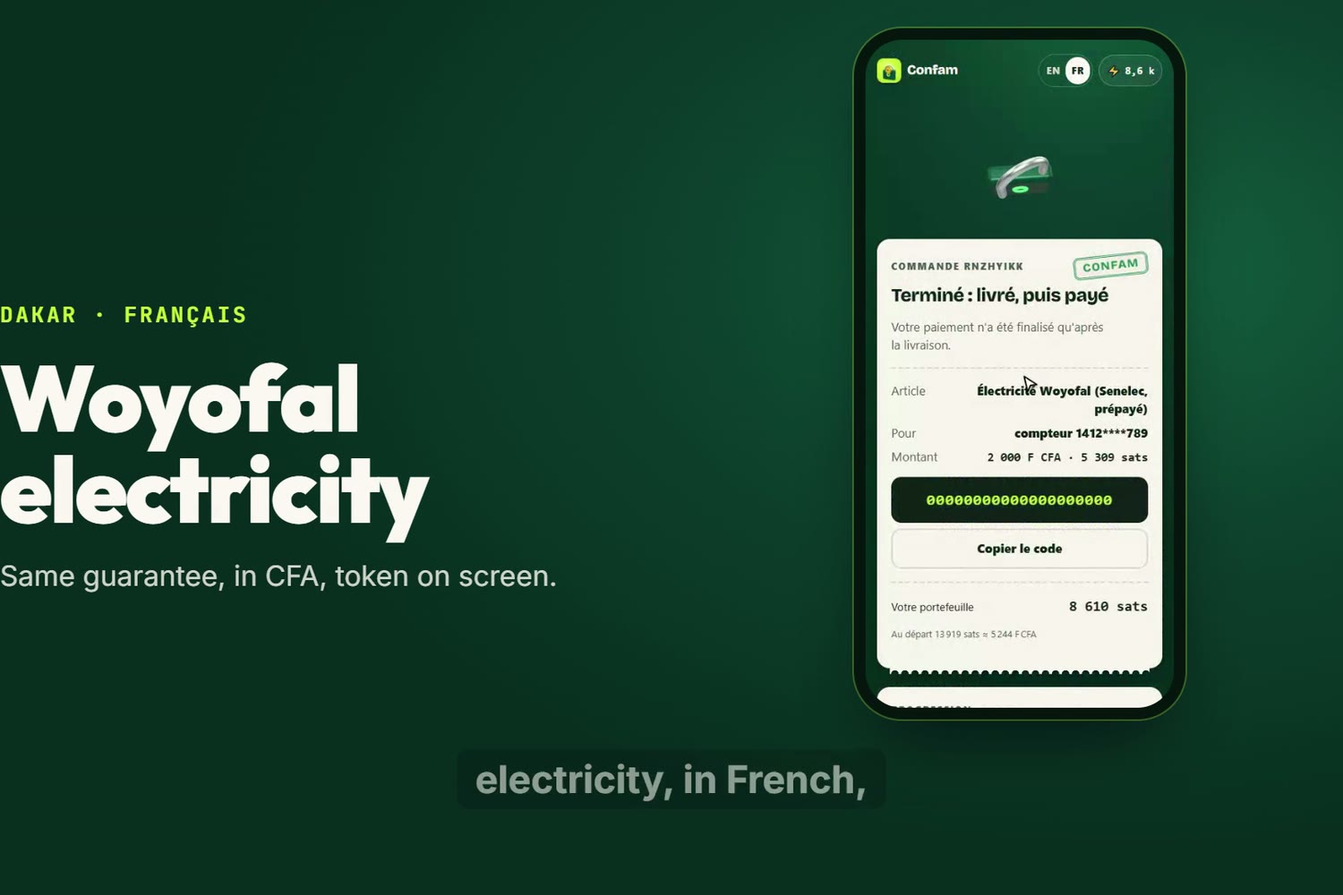
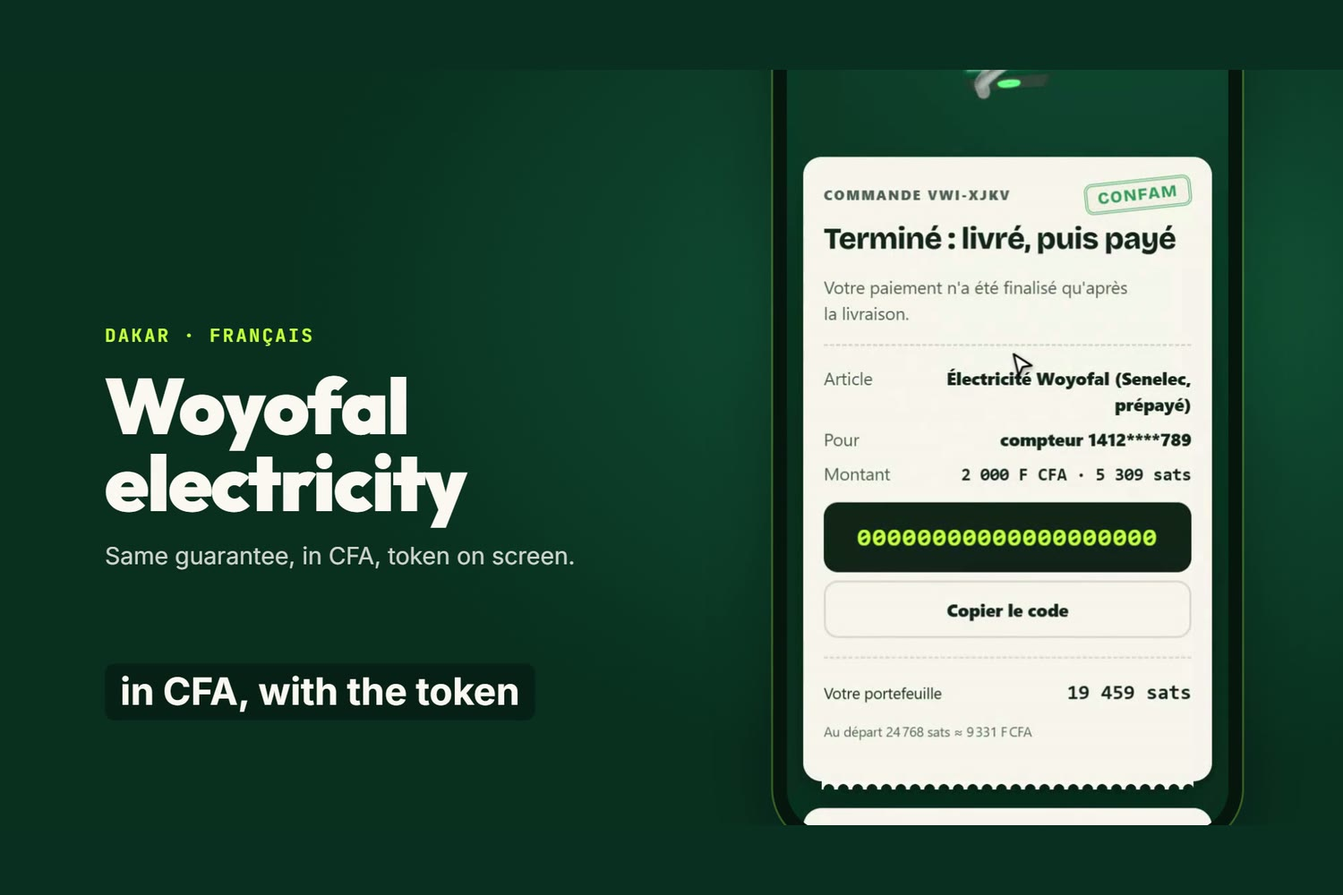
feat(video): bigger, sharper phone (1.5x capture) with push-ins on each key moment; larger captions

diff --git a/video/film/index.html b/video/film/index.html
@@ -28,17 +28,21 @@
       <div id="s12" data-composition-id="s12" data-composition-src="compositions/s12.html" data-start="111.72" data-duration="12.768" data-track-index="1" data-track-kind="graphics" data-width="1920" data-height="1080" style="z-index:21;"></div>
       <div id="s13" data-composition-id="s13" data-composition-src="compositions/s13.html" data-start="124.488" data-duration="10.392" data-track-index="1" data-track-kind="graphics" data-width="1920" data-height="1080" style="z-index:22;"></div>
       <div id="s14" data-composition-id="s14" data-composition-src="compositions/s14.html" data-start="134.88" data-duration="6.048" data-track-index="1" data-track-kind="graphics" data-width="1920" data-height="1080" style="z-index:23;"></div>
-      <div id="phone" data-composition-id="phone" data-composition-src="compositions/phone.html" data-start="21.792" data-duration="82.152" data-track-index="2" data-track-kind="graphics" data-width="1920" data-height="1080" style="z-index:30;"></div>
-      <video id="v-s03-0" class="clip" src="assets/footage/wallet.mp4" muted playsinline data-start="21.792" data-duration="14.208" data-media-start="4.6" data-playback-rate="0.2393" data-track-index="3" style="position:absolute; left:1194px; top:48px; width:372px; height:806px; border-radius:44px; object-fit:cover; z-index:40;"></video>
-      <video id="v-s04-0" class="clip" src="assets/footage/wallet.mp4" muted playsinline data-start="36.0" data-duration="8.304" data-media-start="8.0" data-playback-rate="1.5655" data-track-index="3" style="position:absolute; left:1194px; top:48px; width:372px; height:806px; border-radius:44px; object-fit:cover; z-index:40;"></video>
-      <video id="v-s05-0" class="clip" src="assets/footage/airtime.mp4" muted playsinline data-start="44.304" data-duration="9.816" data-media-start="9.787" data-playback-rate="1.273" data-track-index="3" style="position:absolute; left:1194px; top:48px; width:372px; height:806px; border-radius:44px; object-fit:cover; z-index:40;"></video>
-      <video id="v-s06-0" class="clip" src="assets/footage/airtime.mp4" muted playsinline data-start="54.12" data-duration="11.376" data-media-start="22.283" data-playback-rate="0.8481" data-track-index="3" style="position:absolute; left:1194px; top:48px; width:372px; height:806px; border-radius:44px; object-fit:cover; z-index:40;"></video>
-      <video id="v-s07-0" class="clip" src="assets/footage/airtime.mp4" muted playsinline data-start="65.496" data-duration="7.752" data-media-start="31.931" data-playback-rate="0.6553" data-track-index="3" style="position:absolute; left:1194px; top:48px; width:372px; height:806px; border-radius:44px; object-fit:cover; z-index:40;"></video>
-      <video id="v-s08-0" class="clip" src="assets/footage/airtime.mp4" muted playsinline data-start="73.248" data-duration="5.952" data-media-start="40.411" data-playback-rate="0.9073" data-track-index="3" style="position:absolute; left:1194px; top:48px; width:372px; height:806px; border-radius:44px; object-fit:cover; z-index:40;"></video>
-      <video id="v-s09-0" class="clip" src="assets/footage/fail.mp4" muted playsinline data-start="79.2" data-duration="7.179" data-media-start="15.34" data-playback-rate="2.2475" data-track-index="3" style="position:absolute; left:1194px; top:48px; width:372px; height:806px; border-radius:44px; object-fit:cover; z-index:40;"></video>
-      <video id="v-s09-1" class="clip" src="assets/footage/fail.mp4" muted playsinline data-start="86.379" data-duration="8.781" data-media-start="31.475" data-playback-rate="0.4903" data-track-index="3" style="position:absolute; left:1194px; top:48px; width:372px; height:806px; border-radius:44px; object-fit:cover; z-index:40;"></video>
-      <video id="v-s10-0" class="clip" src="assets/footage/woyofal.mp4" muted playsinline data-start="95.16" data-duration="3.4" data-media-start="14.945" data-playback-rate="2.5221" data-track-index="3" style="position:absolute; left:1194px; top:48px; width:372px; height:806px; border-radius:44px; object-fit:cover; z-index:40;"></video>
-      <video id="v-s10-1" class="clip" src="assets/footage/woyofal.mp4" muted playsinline data-start="98.56" data-duration="5.384" data-media-start="46.953" data-playback-rate="1.1103" data-track-index="3" style="position:absolute; left:1194px; top:48px; width:372px; height:806px; border-radius:44px; object-fit:cover; z-index:40;"></video>
+      <div id="rig" data-layout-allow-overflow style="position:absolute; left:1201px; top:36px; width:479px; height:1008px; z-index:40; opacity:0;">
+        <div id="phone-body" style="position:absolute; inset:0; border-radius:58px; background:#05140f; box-shadow: 0 0 0 2px rgba(198,244,50,0.25), 0 40px 90px -30px rgba(0,0,0,0.7);"></div>
+        <div id="screen-mask" style="position:absolute; left:14px; top:14px; width:451px; height:980px; border-radius:44px; overflow:hidden;">
+          <video id="v-s03-0" class="clip" src="assets/footage/wallet.mp4" muted playsinline data-start="21.792" data-duration="14.208" data-media-start="3.741" data-playback-rate="0.2323" data-track-index="3" style="position:absolute; left:0; top:0; width:451px; height:980px; object-fit:cover;"></video>
+          <video id="v-s04-0" class="clip" src="assets/footage/wallet.mp4" muted playsinline data-start="36.0" data-duration="8.304" data-media-start="7.041" data-playback-rate="1.7104" data-track-index="3" style="position:absolute; left:0; top:0; width:451px; height:980px; object-fit:cover;"></video>
+          <video id="v-s05-0" class="clip" src="assets/footage/airtime.mp4" muted playsinline data-start="44.304" data-duration="9.816" data-media-start="7.509" data-playback-rate="1.2991" data-track-index="3" style="position:absolute; left:0; top:0; width:451px; height:980px; object-fit:cover;"></video>
+          <video id="v-s06-0" class="clip" src="assets/footage/airtime.mp4" muted playsinline data-start="54.12" data-duration="11.376" data-media-start="20.261" data-playback-rate="0.7081" data-track-index="3" style="position:absolute; left:0; top:0; width:451px; height:980px; object-fit:cover;"></video>
+          <video id="v-s07-0" class="clip" src="assets/footage/airtime.mp4" muted playsinline data-start="65.496" data-duration="7.752" data-media-start="28.316" data-playback-rate="0.7188" data-track-index="3" style="position:absolute; left:0; top:0; width:451px; height:980px; object-fit:cover;"></video>
+          <video id="v-s08-0" class="clip" src="assets/footage/airtime.mp4" muted playsinline data-start="73.248" data-duration="5.952" data-media-start="37.288" data-playback-rate="0.9073" data-track-index="3" style="position:absolute; left:0; top:0; width:451px; height:980px; object-fit:cover;"></video>
+          <video id="v-s09-0" class="clip" src="assets/footage/fail.mp4" muted playsinline data-start="79.2" data-duration="7.179" data-media-start="13.817" data-playback-rate="2.4574" data-track-index="3" style="position:absolute; left:0; top:0; width:451px; height:980px; object-fit:cover;"></video>
+          <video id="v-s09-1" class="clip" src="assets/footage/fail.mp4" muted playsinline data-start="86.379" data-duration="8.781" data-media-start="31.459" data-playback-rate="0.549" data-track-index="3" style="position:absolute; left:0; top:0; width:451px; height:980px; object-fit:cover;"></video>
+          <video id="v-s10-0" class="clip" src="assets/footage/woyofal.mp4" muted playsinline data-start="95.16" data-duration="3.4" data-media-start="11.708" data-playback-rate="2.2915" data-track-index="3" style="position:absolute; left:0; top:0; width:451px; height:980px; object-fit:cover;"></video>
+          <video id="v-s10-1" class="clip" src="assets/footage/woyofal.mp4" muted playsinline data-start="98.56" data-duration="5.384" data-media-start="40.095" data-playback-rate="1.1051" data-track-index="3" style="position:absolute; left:0; top:0; width:451px; height:980px; object-fit:cover;"></video>
+        </div>
+      </div>
       <div id="captions" data-composition-id="captions" data-composition-src="compositions/captions.html" data-start="0" data-duration="140.928" data-track-index="4" data-track-kind="captions" data-width="1920" data-height="1080" style="z-index:60;"></div>
       <audio id="vo-s01" src="assets/voice/s01.mp3" data-start="0.5" data-duration="9.744" data-track-index="5" data-volume="1"></audio>
       <audio id="vo-s02" src="assets/voice/s02.mp3" data-start="11.444" data-duration="9.648" data-track-index="5" data-volume="1"></audio>
@@ -55,30 +59,48 @@
       <audio id="vo-s13" src="assets/voice/s13.mp3" data-start="124.988" data-duration="9.192" data-track-index="5" data-volume="1"></audio>
       <audio id="vo-s14" src="assets/voice/s14.mp3" data-start="135.38" data-duration="4.848" data-track-index="5" data-volume="1"></audio>
       <audio id="bed" src="assets/audio/bed.wav" data-start="0" data-duration="140.928" data-track-index="6" data-volume="0.14" data-fade-in="1" data-fade-out="3"></audio>
-      <audio id="fx0" src="assets/sfx/click-a.mp3" data-start="36.101" data-duration="0.366" data-track-index="7" data-volume="0.9"></audio>
-      <audio id="fx1" src="assets/sfx/click-b.mp3" data-start="37.771" data-duration="0.336" data-track-index="8" data-volume="0.9"></audio>
-      <audio id="fx2" src="assets/sfx/click-c.mp3" data-start="39.538" data-duration="0.393" data-track-index="7" data-volume="0.9"></audio>
-      <audio id="fx3" src="assets/sfx/click-a.mp3" data-start="44.893" data-duration="0.366" data-track-index="8" data-volume="0.9"></audio>
-      <audio id="fx4" src="assets/sfx/click-b.mp3" data-start="47.097" data-duration="0.336" data-track-index="7" data-volume="0.9"></audio>
-      <audio id="fx5" src="assets/sfx/click-c.mp3" data-start="48.572" data-duration="0.393" data-track-index="8" data-volume="0.9"></audio>
-      <audio id="fx6" src="assets/sfx/click-a.mp3" data-start="50.783" data-duration="0.366" data-track-index="7" data-volume="0.9"></audio>
-      <audio id="fx7" src="assets/sfx/click-b.mp3" data-start="54.558" data-duration="0.336" data-track-index="8" data-volume="0.9"></audio>
-      <audio id="fx8" src="assets/sfx/pop.mp3" data-start="66.859" data-duration="0.72" data-track-index="7" data-volume="0.8"></audio>
-      <audio id="fx9" src="assets/sfx/click-c.mp3" data-start="79.289" data-duration="0.393" data-track-index="8" data-volume="0.9"></audio>
-      <audio id="fx10" src="assets/sfx/click-a.mp3" data-start="81.312" data-duration="0.366" data-track-index="7" data-volume="0.9"></audio>
+      <audio id="fx0" src="assets/sfx/click-a.mp3" data-start="36.136" data-duration="0.366" data-track-index="7" data-volume="0.9"></audio>
+      <audio id="fx1" src="assets/sfx/click-b.mp3" data-start="37.786" data-duration="0.336" data-track-index="8" data-volume="0.9"></audio>
+      <audio id="fx2" src="assets/sfx/click-c.mp3" data-start="39.411" data-duration="0.393" data-track-index="7" data-volume="0.9"></audio>
+      <audio id="fx3" src="assets/sfx/click-a.mp3" data-start="44.88" data-duration="0.366" data-track-index="8" data-volume="0.9"></audio>
+      <audio id="fx4" src="assets/sfx/click-b.mp3" data-start="47.087" data-duration="0.336" data-track-index="7" data-volume="0.9"></audio>
+      <audio id="fx5" src="assets/sfx/click-c.mp3" data-start="48.733" data-duration="0.393" data-track-index="8" data-volume="0.9"></audio>
+      <audio id="fx6" src="assets/sfx/click-a.mp3" data-start="51.11" data-duration="0.366" data-track-index="7" data-volume="0.9"></audio>
+      <audio id="fx7" src="assets/sfx/click-b.mp3" data-start="54.651" data-duration="0.336" data-track-index="8" data-volume="0.9"></audio>
+      <audio id="fx8" src="assets/sfx/pop.mp3" data-start="66.731" data-duration="0.72" data-track-index="7" data-volume="0.8"></audio>
+      <audio id="fx9" src="assets/sfx/click-c.mp3" data-start="79.277" data-duration="0.393" data-track-index="8" data-volume="0.9"></audio>
+      <audio id="fx10" src="assets/sfx/click-a.mp3" data-start="81.035" data-duration="0.366" data-track-index="7" data-volume="0.9"></audio>
       <audio id="fx11" src="assets/sfx/riser.mp3" data-start="84.426" data-duration="2.592" data-track-index="8" data-volume="0.55"></audio>
       <audio id="fx12" src="assets/sfx/stamp.mp3" data-start="86.25" data-duration="0.575" data-track-index="7" data-volume="0.9"></audio>
-      <audio id="fx13" src="assets/sfx/click-b.mp3" data-start="95.285" data-duration="0.336" data-track-index="8" data-volume="0.9"></audio>
-      <audio id="fx14" src="assets/sfx/key.mp3" data-start="95.457" data-duration="0.271" data-track-index="7" data-volume="0.62"></audio>
-      <audio id="fx15" src="assets/sfx/key.mp3" data-start="95.525" data-duration="0.271" data-track-index="8" data-volume="0.5"></audio>
-      <audio id="fx16" src="assets/sfx/key.mp3" data-start="95.592" data-duration="0.271" data-track-index="7" data-volume="0.62"></audio>
-      <audio id="fx17" src="assets/sfx/key.mp3" data-start="95.66" data-duration="0.271" data-track-index="8" data-volume="0.5"></audio>
-      <audio id="fx18" src="assets/sfx/key.mp3" data-start="95.727" data-duration="0.271" data-track-index="7" data-volume="0.62"></audio>
-      <audio id="fx19" src="assets/sfx/key.mp3" data-start="95.794" data-duration="0.271" data-track-index="8" data-volume="0.5"></audio>
-      <audio id="fx20" src="assets/sfx/pop.mp3" data-start="99.329" data-duration="0.72" data-track-index="7" data-volume="0.8"></audio>
+      <audio id="fx13" src="assets/sfx/click-b.mp3" data-start="95.301" data-duration="0.336" data-track-index="8" data-volume="0.9"></audio>
+      <audio id="fx14" src="assets/sfx/key.mp3" data-start="95.533" data-duration="0.271" data-track-index="7" data-volume="0.62"></audio>
+      <audio id="fx15" src="assets/sfx/key.mp3" data-start="95.607" data-duration="0.271" data-track-index="8" data-volume="0.5"></audio>
+      <audio id="fx16" src="assets/sfx/key.mp3" data-start="95.681" data-duration="0.271" data-track-index="7" data-volume="0.62"></audio>
+      <audio id="fx17" src="assets/sfx/key.mp3" data-start="95.755" data-duration="0.271" data-track-index="8" data-volume="0.5"></audio>
+      <audio id="fx18" src="assets/sfx/key.mp3" data-start="95.829" data-duration="0.271" data-track-index="7" data-volume="0.62"></audio>
+      <audio id="fx19" src="assets/sfx/key.mp3" data-start="95.903" data-duration="0.271" data-track-index="8" data-volume="0.5"></audio>
+      <audio id="fx20" src="assets/sfx/pop.mp3" data-start="99.333" data-duration="0.72" data-track-index="7" data-volume="0.8"></audio>
     </div>
     <script>
-      window.__timelines["main"] = gsap.timeline({ paused: true });
+      const tl = gsap.timeline({ paused: true });
+      tl.set("#rig", { transformOrigin: "50% 50%" }, 0);
+      tl.fromTo("#rig", { opacity: 0, y: 60 }, { opacity: 1, y: 0, duration: 0.6, ease: "power3.out" }, 21.792);
+      tl.to("#rig", { opacity: 0, duration: 0.35, ease: "power2.in" }, 103.594);
+      tl.fromTo("#rig", { scale: 1, y: 0 }, { scale: 1.4, y: 165.6, duration: 0.8, ease: "power2.inOut" }, 40.356);
+      tl.to("#rig", { scale: 1, y: 0, duration: 0.5, ease: "power2.inOut" }, 43.754);
+      tl.fromTo("#rig", { scale: 1, y: 0 }, { scale: 1.4, y: -165.6, duration: 0.8, ease: "power2.inOut" }, 49.278);
+      tl.to("#rig", { scale: 1, y: 0, duration: 0.5, ease: "power2.inOut" }, 53.570);
+      tl.fromTo("#rig", { scale: 1, y: 0 }, { scale: 1.4, y: -164.6, duration: 0.8, ease: "power2.inOut" }, 55.520);
+      tl.to("#rig", { scale: 1, y: 0, duration: 0.5, ease: "power2.inOut" }, 64.946);
+      tl.fromTo("#rig", { scale: 1, y: 0 }, { scale: 1.4, y: 0.0, duration: 0.8, ease: "power2.inOut" }, 67.905);
+      tl.to("#rig", { scale: 1, y: 0, duration: 0.5, ease: "power2.inOut" }, 72.698);
+      tl.fromTo("#rig", { scale: 1, y: 0 }, { scale: 1.4, y: -165.6, duration: 0.8, ease: "power2.inOut" }, 73.748);
+      tl.to("#rig", { scale: 1, y: 0, duration: 0.5, ease: "power2.inOut" }, 78.650);
+      tl.fromTo("#rig", { scale: 1, y: 0 }, { scale: 1.4, y: 68.6, duration: 0.8, ease: "power2.inOut" }, 85.479);
+      tl.to("#rig", { scale: 1, y: 0, duration: 0.5, ease: "power2.inOut" }, 94.610);
+      tl.fromTo("#rig", { scale: 1, y: 0 }, { scale: 1.4, y: -137.2, duration: 0.8, ease: "power2.inOut" }, 99.160);
+      tl.to("#rig", { scale: 1, y: 0, duration: 0.5, ease: "power2.inOut" }, 103.444);
+      window.__timelines["main"] = tl;
     </script>
   </body>
 </html>

diff --git a/video/film/compositions/captions.html b/video/film/compositions/captions.html
@@ -5,7 +5,7 @@
 .display { font-family: 'Outfit', sans-serif; font-weight: 900; letter-spacing: -0.02em; line-height: 0.98; }
 .sub { font-size: 34px; line-height: 1.35; color: rgba(251, 248, 241, 0.82); }
 .src { font-family: 'JetBrains Mono', monospace; font-size: 20px; color: rgba(251, 248, 241, 0.55); }
-.cap { position: absolute; left: 0; right: 0; bottom: 104px; text-align: center; overflow: visible; } .cap span { display: inline-block; font-family: 'Inter', sans-serif; font-weight: 700; font-size: 46px; color: #fbf8f1; padding: 8px 22px; border-radius: 14px; background: rgba(5, 20, 15, 0.55); }</style>
+.cap { position: absolute; left: 0; right: 0; bottom: 108px; text-align: center; overflow: visible; } .cap-left { left: 150px; right: auto; width: 930px; text-align: left; bottom: 150px; } .cap span { display: inline-block; font-family: 'Inter', sans-serif; font-weight: 700; font-size: 54px; line-height: 1.2; color: #fbf8f1; padding: 8px 22px; border-radius: 14px; background: rgba(5, 20, 15, 0.6); }</style>
   <div id="root" data-composition-id="captions" data-width="1920" data-height="1080">
     <div id="cap0" class="clip cap" data-start="0.552" data-duration="1.082"><span id="cap0-t">You buy airtime.</span></div>
     <div id="cap1" class="clip cap" data-start="2.39" data-duration="1.498"><span id="cap1-t">Your account is debited.</span></div>
@@ -19,49 +19,49 @@
     <div id="cap9" class="clip cap" data-start="17.201" data-duration="1.498"><span id="cap9-t">and the product comes later,</span></div>
     <div id="cap10" class="clip cap" data-start="18.738" data-duration="0.943"><span id="cap10-t">all the risk is on</span></div>
     <div id="cap11" class="clip cap" data-start="19.701" data-duration="0.535"><span id="cap11-t">us.</span></div>
-    <div id="cap12" class="clip cap" data-start="22.344" data-duration="1.03"><span id="cap12-t">This is Confam.</span></div>
-    <div id="cap13" class="clip cap" data-start="24.13" data-duration="0.769"><span id="cap13-t">E no land?</span></div>
-    <div id="cap14" class="clip cap" data-start="25.784" data-duration="0.782"><span id="cap14-t">You no pay.</span></div>
-    <div id="cap15" class="clip cap" data-start="27.398" data-duration="1.212"><span id="cap15-t">You pay for airtime,</span></div>
-    <div id="cap16" class="clip cap" data-start="28.765" data-duration="2.163"><span id="cap16-t">data and electricity with Bitcoin,</span></div>
-    <div id="cap17" class="clip cap" data-start="31.031" data-duration="1.464"><span id="cap17-t">and your payment only completes</span></div>
-    <div id="cap18" class="clip cap" data-start="32.515" data-duration="1.915"><span id="cap18-t">after the provider confirms delivery.</span></div>
-    <div id="cap19" class="clip cap" data-start="36.552" data-duration="1.147"><span id="cap19-t">Connect a wallet.</span></div>
-    <div id="cap20" class="clip cap" data-start="38.533" data-duration="0.978"><span id="cap20-t">For this demo,</span></div>
-    <div id="cap21" class="clip cap" data-start="39.653" data-duration="1.191"><span id="cap21-t">a free test wallet with</span></div>
-    <div id="cap22" class="clip cap" data-start="40.864" data-duration="1.889"><span id="cap22-t">twenty five thousand test sats.</span></div>
-    <div id="cap23" class="clip cap" data-start="44.856" data-duration="0.873"><span id="cap23-t">Pick airtime.</span></div>
-    <div id="cap24" class="clip cap" data-start="46.473" data-duration="1.029"><span id="cap24-t">Enter the number,</span></div>
-    <div id="cap25" class="clip cap" data-start="47.619" data-duration="1.641"><span id="cap25-t">the network and the amount.</span></div>
-    <div id="cap26" class="clip cap" data-start="50.093" data-duration="1.62"><span id="cap26-t">Confam shows the exact price</span></div>
-    <div id="cap27" class="clip cap" data-start="51.733" data-duration="0.834"><span id="cap27-t">in sats.</span></div>
-    <div id="cap28" class="clip cap" data-start="54.672" data-duration="0.782"><span id="cap28-t">Now watch.</span></div>
-    <div id="cap29" class="clip cap" data-start="56.38" data-duration="1.12"><span id="cap29-t">My sats are locked,</span></div>
-    <div id="cap30" class="clip cap" data-start="57.695" data-duration="0.782"><span id="cap30-t">not sent.</span></div>
-    <div id="cap31" class="clip cap" data-start="59.349" data-duration="1.282"><span id="cap31-t">A hold invoice keeps them</span></div>
-    <div id="cap32" class="clip cap" data-start="60.651" data-duration="1.263"><span id="cap32-t">in the Lightning network,</span></div>
-    <div id="cap33" class="clip cap" data-start="62.044" data-duration="1.36"><span id="cap33-t">and Confam cannot take them</span></div>
-    <div id="cap34" class="clip cap" data-start="63.424" data-duration="0.483"><span id="cap34-t">yet.</span></div>
-    <div id="cap35" class="clip cap" data-start="66.048" data-duration="1.55"><span id="cap35-t">Confam buys the airtime.</span></div>
-    <div id="cap36" class="clip cap" data-start="68.342" data-duration="1.542"><span id="cap36-t">Only when the provider confirms</span></div>
-    <div id="cap37" class="clip cap" data-start="69.904" data-duration="1.798"><span id="cap37-t">delivery does the payment complete.</span></div>
-    <div id="cap38" class="clip cap" data-start="73.8" data-duration="0.983"><span id="cap38-t">And I get a receipt</span></div>
-    <div id="cap39" class="clip cap" data-start="74.803" data-duration="1.016"><span id="cap39-t">signed with Nostr,</span></div>
-    <div id="cap40" class="clip cap" data-start="75.962" data-duration="1.086"><span id="cap40-t">checked right here in my</span></div>
-    <div id="cap41" class="clip cap" data-start="77.068" data-duration="0.587"><span id="cap41-t">browser.</span></div>
-    <div id="cap42" class="clip cap" data-start="79.752" data-duration="1.069"><span id="cap42-t">Now the bad day.</span></div>
-    <div id="cap43" class="clip cap" data-start="81.668" data-duration="1.316"><span id="cap43-t">This purchase fails.</span></div>
-    <div id="cap44" class="clip cap" data-start="83.817" data-duration="1.745"><span id="cap44-t">The lock opens by itself.</span></div>
-    <div id="cap45" class="clip cap" data-start="86.329" data-duration="0.86"><span id="cap45-t">Not charged.</span></div>
-    <div id="cap46" class="clip cap" data-start="88.075" data-duration="1.386"><span id="cap46-t">My sats never left my</span></div>
-    <div id="cap47" class="clip cap" data-start="89.481" data-duration="0.586"><span id="cap47-t">wallet.</span></div>
-    <div id="cap48" class="clip cap" data-start="90.913" data-duration="1.381"><span id="cap48-t">No refund to chase,</span></div>
-    <div id="cap49" class="clip cap" data-start="92.371" data-duration="1.186"><span id="cap49-t">no support ticket.</span></div>
-    <div id="cap50" class="clip cap" data-start="95.712" data-duration="0.912"><span id="cap50-t">And in Dakar,</span></div>
-    <div id="cap51" class="clip cap" data-start="96.78" data-duration="1.438"><span id="cap51-t">the same guarantee for Woyofal</span></div>
-    <div id="cap52" class="clip cap" data-start="98.238" data-duration="1.785"><span id="cap52-t">electricity, in French,</span></div>
-    <div id="cap53" class="clip cap" data-start="100.074" data-duration="1.621"><span id="cap53-t">in CFA, with the token</span></div>
-    <div id="cap54" class="clip cap" data-start="101.715" data-duration="0.691"><span id="cap54-t">on screen.</span></div>
+    <div id="cap12" class="clip cap cap-left" data-start="22.344" data-duration="1.03"><span id="cap12-t">This is Confam.</span></div>
+    <div id="cap13" class="clip cap cap-left" data-start="24.13" data-duration="0.769"><span id="cap13-t">E no land?</span></div>
+    <div id="cap14" class="clip cap cap-left" data-start="25.784" data-duration="0.782"><span id="cap14-t">You no pay.</span></div>
+    <div id="cap15" class="clip cap cap-left" data-start="27.398" data-duration="1.212"><span id="cap15-t">You pay for airtime,</span></div>
+    <div id="cap16" class="clip cap cap-left" data-start="28.765" data-duration="2.163"><span id="cap16-t">data and electricity with Bitcoin,</span></div>
+    <div id="cap17" class="clip cap cap-left" data-start="31.031" data-duration="1.464"><span id="cap17-t">and your payment only completes</span></div>
+    <div id="cap18" class="clip cap cap-left" data-start="32.515" data-duration="1.915"><span id="cap18-t">after the provider confirms delivery.</span></div>
+    <div id="cap19" class="clip cap cap-left" data-start="36.552" data-duration="1.147"><span id="cap19-t">Connect a wallet.</span></div>
+    <div id="cap20" class="clip cap cap-left" data-start="38.533" data-duration="0.978"><span id="cap20-t">For this demo,</span></div>
+    <div id="cap21" class="clip cap cap-left" data-start="39.653" data-duration="1.191"><span id="cap21-t">a free test wallet with</span></div>
+    <div id="cap22" class="clip cap cap-left" data-start="40.864" data-duration="1.889"><span id="cap22-t">twenty five thousand test sats.</span></div>
+    <div id="cap23" class="clip cap cap-left" data-start="44.856" data-duration="0.873"><span id="cap23-t">Pick airtime.</span></div>
+    <div id="cap24" class="clip cap cap-left" data-start="46.473" data-duration="1.029"><span id="cap24-t">Enter the number,</span></div>
+    <div id="cap25" class="clip cap cap-left" data-start="47.619" data-duration="1.641"><span id="cap25-t">the network and the amount.</span></div>
+    <div id="cap26" class="clip cap cap-left" data-start="50.093" data-duration="1.62"><span id="cap26-t">Confam shows the exact price</span></div>
+    <div id="cap27" class="clip cap cap-left" data-start="51.733" data-duration="0.834"><span id="cap27-t">in sats.</span></div>
+    <div id="cap28" class="clip cap cap-left" data-start="54.672" data-duration="0.782"><span id="cap28-t">Now watch.</span></div>
+    <div id="cap29" class="clip cap cap-left" data-start="56.38" data-duration="1.12"><span id="cap29-t">My sats are locked,</span></div>
+    <div id="cap30" class="clip cap cap-left" data-start="57.695" data-duration="0.782"><span id="cap30-t">not sent.</span></div>
+    <div id="cap31" class="clip cap cap-left" data-start="59.349" data-duration="1.282"><span id="cap31-t">A hold invoice keeps them</span></div>
+    <div id="cap32" class="clip cap cap-left" data-start="60.651" data-duration="1.263"><span id="cap32-t">in the Lightning network,</span></div>
+    <div id="cap33" class="clip cap cap-left" data-start="62.044" data-duration="1.36"><span id="cap33-t">and Confam cannot take them</span></div>
+    <div id="cap34" class="clip cap cap-left" data-start="63.424" data-duration="0.483"><span id="cap34-t">yet.</span></div>
+    <div id="cap35" class="clip cap cap-left" data-start="66.048" data-duration="1.55"><span id="cap35-t">Confam buys the airtime.</span></div>
+    <div id="cap36" class="clip cap cap-left" data-start="68.342" data-duration="1.542"><span id="cap36-t">Only when the provider confirms</span></div>
+    <div id="cap37" class="clip cap cap-left" data-start="69.904" data-duration="1.798"><span id="cap37-t">delivery does the payment complete.</span></div>
+    <div id="cap38" class="clip cap cap-left" data-start="73.8" data-duration="0.983"><span id="cap38-t">And I get a receipt</span></div>
+    <div id="cap39" class="clip cap cap-left" data-start="74.803" data-duration="1.016"><span id="cap39-t">signed with Nostr,</span></div>
+    <div id="cap40" class="clip cap cap-left" data-start="75.962" data-duration="1.086"><span id="cap40-t">checked right here in my</span></div>
+    <div id="cap41" class="clip cap cap-left" data-start="77.068" data-duration="0.587"><span id="cap41-t">browser.</span></div>
+    <div id="cap42" class="clip cap cap-left" data-start="79.752" data-duration="1.069"><span id="cap42-t">Now the bad day.</span></div>
+    <div id="cap43" class="clip cap cap-left" data-start="81.668" data-duration="1.316"><span id="cap43-t">This purchase fails.</span></div>
+    <div id="cap44" class="clip cap cap-left" data-start="83.817" data-duration="1.745"><span id="cap44-t">The lock opens by itself.</span></div>
+    <div id="cap45" class="clip cap cap-left" data-start="86.329" data-duration="0.86"><span id="cap45-t">Not charged.</span></div>
+    <div id="cap46" class="clip cap cap-left" data-start="88.075" data-duration="1.386"><span id="cap46-t">My sats never left my</span></div>
+    <div id="cap47" class="clip cap cap-left" data-start="89.481" data-duration="0.586"><span id="cap47-t">wallet.</span></div>
+    <div id="cap48" class="clip cap cap-left" data-start="90.913" data-duration="1.381"><span id="cap48-t">No refund to chase,</span></div>
+    <div id="cap49" class="clip cap cap-left" data-start="92.371" data-duration="1.186"><span id="cap49-t">no support ticket.</span></div>
+    <div id="cap50" class="clip cap cap-left" data-start="95.712" data-duration="0.912"><span id="cap50-t">And in Dakar,</span></div>
+    <div id="cap51" class="clip cap cap-left" data-start="96.78" data-duration="1.438"><span id="cap51-t">the same guarantee for Woyofal</span></div>
+    <div id="cap52" class="clip cap cap-left" data-start="98.238" data-duration="1.785"><span id="cap52-t">electricity, in French,</span></div>
+    <div id="cap53" class="clip cap cap-left" data-start="100.074" data-duration="1.621"><span id="cap53-t">in CFA, with the token</span></div>
+    <div id="cap54" class="clip cap cap-left" data-start="101.715" data-duration="0.691"><span id="cap54-t">on screen.</span></div>
     <div id="cap55" class="clip cap" data-start="104.496" data-duration="2.136"><span id="cap55-t">Airtime in nineteen African countries,</span></div>
     <div id="cap56" class="clip cap" data-start="106.775" data-duration="1.081"><span id="cap56-t">data in thirteen,</span></div>
     <div id="cap57" class="clip cap" data-start="107.96" data-duration="1.516"><span id="cap57-t">and electricity in Nigeria and</span></div>

diff --git a/video/film/build.py b/video/film/build.py
@@ -16,9 +16,10 @@ FRAME = 1 / FPS
 LEAD, TAIL = 0.5, 0.7
 W, H = 1920, 1080
 # Phone screen: the 430x932 capture scaled to fit the right half with room for captions below.
-SCALE = 0.865
-SCR_W, SCR_H = round(430 * SCALE), round(932 * SCALE)
-SCR_X, SCR_Y = 1380 - SCR_W // 2, 48
+SRC_W, SRC_H = 644, 1398  # footage recorded at 1.5x the 430x932 phone layout
+SCR_H = 980
+SCR_W = round(SCR_H * SRC_W / SRC_H)
+SCR_X, SCR_Y = 1440 - SCR_W // 2, 50
 BEZEL = 14
 SFX_PEAK = {"click-a": 0.073, "click-b": 0.067, "click-c": 0.078, "key": 0.054, "pop": 0.12, "stamp": 0.162, "riser": 1.986}
 STAMP_LANDS_AFTER = 0.95  # the app's stamp tween: 0.5 s delay + 0.45 s
@@ -50,24 +51,31 @@ BEATS = [
     {"id": "s01", "kind": "card", "card": "problem"},
     {"id": "s02", "kind": "card", "card": "numbers"},
     {"id": "s03", "kind": "footage", "eyebrow": "Confam", "headline": "E no land?<br>You no pay.", "sub": "Airtime, data and electricity, paid with Bitcoin.",
-     "segments": [("wallet", 4.6, 8.0, 0, None)]},
+     "segments": [("wallet", mark("wallet", "country Nigeria") - 3.6, mark("wallet", "country Nigeria") - 0.3, 0, None)]},
     {"id": "s04", "kind": "footage", "eyebrow": "Step 1", "headline": "Connect a wallet", "sub": "A free test wallet: 25,000 test sats.",
-     "segments": [("wallet", 8.0, 21.0, 0, None)]},
+     "segments": [("wallet", mark("wallet", "country Nigeria") - 0.3, mark("wallet", "balance shown") + 1.6, 0, None)],
+     "zoom": (0.84, 0.035, 1.9, "m:get test wallet+0.9", "end-0.55")},
     {"id": "s05", "kind": "footage", "eyebrow": "Step 2", "headline": "Number, network,<br>amount", "sub": "The exact price in sats, before you pay.",
-     "segments": [("airtime", mark("airtime", "airtime tile") - 0.8, mark("airtime", "pay with wallet") - 0.4, 0, None)]},
+     "segments": [("airtime", mark("airtime", "airtime tile") - 0.8, mark("airtime", "pay with wallet") - 0.4, 0, None)],
+     "zoom": (0.5, 0.9, 1.55, "m:amount 200+0.5", "end-0.55")},
     {"id": "s06", "kind": "footage", "eyebrow": "Lightning hold invoice", "headline": "Locked,<br>not sent.", "sub": "Confam cannot take your sats yet.",
-     "segments": [("airtime", mark("airtime", "pay with wallet") - 0.4, mark("airtime", "final state"), 0, None)]},
+     "segments": [("airtime", mark("airtime", "pay with wallet") - 0.4, mark("airtime", "final state"), 0, None)],
+     "zoom": (0.5, 0.62, 1.45, 1.4, "end-0.55")},
     {"id": "s07", "kind": "footage", "eyebrow": "Provider confirms", "headline": "Delivered first.<br>Paid second.", "sub": "Only then does the payment complete.",
-     "segments": [("airtime", mark("airtime", "final state"), mark("airtime", "result card shown") + 4.2, 0, None)], "stamp": ("airtime", "pop")},
+     "segments": [("airtime", mark("airtime", "final state"), mark("airtime", "result card shown") + 4.2, 0, None)], "stamp": ("airtime", "pop"),
+     "zoom": (0.5, 0.5, 1.45, "m:result card shown+0.5", "end-0.55")},
     {"id": "s08", "kind": "footage", "eyebrow": "Proof", "headline": "A signed<br>receipt", "sub": "Signed with Nostr, checked in your browser.",
-     "segments": [("airtime", mark("airtime", "result card shown") + 7.6, mark("airtime", "result card shown") + 13.0, 0, None)]},
+     "segments": [("airtime", mark("airtime", "result card shown") + 7.6, mark("airtime", "result card shown") + 13.0, 0, None)],
+     "zoom": (0.5, 0.66, 1.6, 0.5, "end-0.55")},
     {"id": "s09", "kind": "footage", "eyebrow": "The bad day", "headline": "Failed?<br>Not charged.", "sub": "The lock opens. Your sats never left.",
      "segments": [("fail", mark("fail", "continue to pay") - 0.3, mark("fail", "final state") + STAMP_LANDS_AFTER, 0, "w:Not"),
                   ("fail", mark("fail", "final state") + STAMP_LANDS_AFTER, mark("fail", "result card shown") + 4.4, "w:Not", None)],
-     "payoff": "w:Not"},
+     "payoff": "w:Not",
+     "zoom": (0.5, 0.45, 1.5, "w:Not-0.9", "end-0.55")},
     {"id": "s10", "kind": "footage", "eyebrow": "Dakar · Français", "headline": "Woyofal<br>electricity", "sub": "Same guarantee, in CFA, token on screen.",
      "segments": [("woyofal", mark("woyofal", "numéro de compteur") - 0.4, mark("woyofal", "meter checked") + 0.6, 0, 3.4),
-                  ("woyofal", mark("woyofal", "final state"), mark("woyofal", "result card shown") + 4.4, 3.4, None)], "stamp": ("woyofal", "pop")},
+                  ("woyofal", mark("woyofal", "final state"), mark("woyofal", "result card shown") + 4.4, 3.4, None)], "stamp": ("woyofal", "pop"),
+     "zoom": (0.5, 0.6, 1.45, 4.0, "end-0.5")},
     {"id": "s11", "kind": "card", "card": "coverage"},
     {"id": "s12", "kind": "card", "card": "stats"},
     {"id": "s13", "kind": "card", "card": "next"},
@@ -83,11 +91,27 @@ for b in BEATS:
 TOTAL = round(t, 3)
 
 
+def _split_offset(v: str) -> tuple[str, float]:
+    m = re.match(r"^(.*?)([+-]\d+(?:\.\d+)?)?$", v)
+    return m.group(1), float(m.group(2) or 0)
+
+
 def resolve(b: dict, v) -> float:
     if v is None:
         return b["dur"]
+    if isinstance(v, str) and v.startswith("end"):
+        return b["dur"] + float(v[3:] or 0)
     if isinstance(v, str) and v.startswith("w:"):
-        return word_time(b["id"], v[2:])
+        word, off = _split_offset(v[2:])
+        return word_time(b["id"], word) + off
+    if isinstance(v, str) and v.startswith("m:"):
+        label, off = _split_offset(v[2:])
+        for clip, m0, m1, f0, f1 in b["segments"]:
+            t = mark(clip, label)
+            if m0 <= t <= m1:
+                bf0, bf1 = resolve(b, f0), resolve(b, f1)
+                return bf0 + (t - m0) * (bf1 - bf0) / (m1 - m0) + off
+        raise ValueError(f"{b['id']}: tap {label!r} is outside this beat's footage")
     return float(v)
 
 
@@ -160,7 +184,7 @@ def caption_groups() -> list[dict]:
             pause = nxt is not None and nxt[1] - e >= 0.15 and len(cur) >= 3
             if nxt is None or end_sentence or pause or len(cur) >= 5:
                 base = b["start"] + LEAD
-                groups.append({"text": " ".join(x[0] for x in cur), "start": round(base + cur[0][1] - 0.05, 3), "end": round(base + cur[-1][2] + 0.12, 3)})
+                groups.append({"text": " ".join(x[0] for x in cur), "start": round(base + cur[0][1] - 0.05, 3), "end": round(base + cur[-1][2] + 0.12, 3), "left": b["kind"] == "footage"})
                 cur = []
     for g, nxt in zip(groups, groups[1:]):  # one group at a time
         g["end"] = min(g["end"], nxt["start"] - 0.02)
@@ -287,10 +311,11 @@ def phone_scene(dur: float) -> str:
 def captions_scene(groups: list[dict]) -> str:
     items, js = [], []
     for i, g in enumerate(groups):
-        items.append(f'    <div id="cap{i}" class="clip cap" data-start="{g["start"]}" data-duration="{round(g["end"] - g["start"], 3)}"><span id="cap{i}-t">{html.escape(g["text"])}</span></div>')
+        side = " cap-left" if g.get("left") else ""
+        items.append(f'    <div id="cap{i}" class="clip cap{side}" data-start="{g["start"]}" data-duration="{round(g["end"] - g["start"], 3)}"><span id="cap{i}-t">{html.escape(g["text"])}</span></div>')
         js.append(f'    tl.fromTo("#cap{i}-t", {{ opacity: 0, y: 8 }}, {{ opacity: 1, y: 0, duration: 0.12, ease: "power2.out" }}, {g["start"]});')
         js.append(f'    tl.to("#cap{i}-t", {{ opacity: 0, duration: 0.1, ease: "power2.in" }}, {round(g["end"] - 0.1, 3)});')
-    style = ".cap { position: absolute; left: 0; right: 0; bottom: 104px; text-align: center; overflow: visible; } .cap span { display: inline-block; font-family: 'Inter', sans-serif; font-weight: 700; font-size: 46px; color: #fbf8f1; padding: 8px 22px; border-radius: 14px; background: rgba(5, 20, 15, 0.55); }"
+    style = ".cap { position: absolute; left: 0; right: 0; bottom: 108px; text-align: center; overflow: visible; } .cap-left { left: 150px; right: auto; width: 930px; text-align: left; bottom: 150px; } .cap span { display: inline-block; font-family: 'Inter', sans-serif; font-weight: 700; font-size: 54px; line-height: 1.2; color: #fbf8f1; padding: 8px 22px; border-radius: 14px; background: rgba(5, 20, 15, 0.6); }"
     return scene("captions", TOTAL, style, "\n".join(items), "\n".join(js))
 
 
@@ -301,16 +326,47 @@ hosts = []
 for z, b in enumerate(BEATS, start=10):
     (comp / f"{b['id']}.html").write_text(footage_scene(b) if b["kind"] == "footage" else card_scene(b), encoding="utf-8")
     hosts.append(f'      <div id="{b["id"]}" data-composition-id="{b["id"]}" data-composition-src="compositions/{b["id"]}.html" data-start="{b["start"]}" data-duration="{b["dur"]}" data-track-index="1" data-track-kind="graphics" data-width="{W}" data-height="{H}" style="z-index:{z};"></div>')
-foot = [b for b in BEATS if b["kind"] == "footage"]
-phone_start, phone_end = foot[0]["start"], foot[-1]["start"] + foot[-1]["dur"]
-(comp / "phone.html").write_text(phone_scene(round(phone_end - phone_start, 3)), encoding="utf-8")
 groups = caption_groups()
 (comp / "captions.html").write_text(captions_scene(groups), encoding="utf-8")
 
-video_tags = "\n".join(
-    f'      <video id="{v["id"]}" class="clip" src="assets/footage/{v["clip"]}.mp4" muted playsinline data-start="{v["start"]}" data-duration="{v["dur"]}" data-media-start="{v["media"]}" data-playback-rate="{v["rate"]}" data-track-index="3" style="position:absolute; left:{SCR_X}px; top:{SCR_Y}px; width:{SCR_W}px; height:{SCR_H}px; border-radius:44px; object-fit:cover; z-index:40;"></video>'
+foot = [b for b in BEATS if b["kind"] == "footage"]
+phone_start, phone_end = foot[0]["start"], foot[-1]["start"] + foot[-1]["dur"]
+# The phone: one rig (body + screen mask + every footage segment). A push-in scales the whole rig and
+# slides it so the focus sits mid-frame; it stays fully visible side to side (the screen is never cropped
+# horizontally) and only runs past the frame's top and bottom, like a camera moving closer.
+RIG_X, RIG_Y = SCR_X - BEZEL, SCR_Y - BEZEL
+RIG_W, RIG_H = SCR_W + 2 * BEZEL, SCR_H + 2 * BEZEL
+video_inner = "\n".join(
+    f'          <video id="{v["id"]}" class="clip" src="assets/footage/{v["clip"]}.mp4" muted playsinline data-start="{v["start"]}" data-duration="{v["dur"]}" data-media-start="{v["media"]}" data-playback-rate="{v["rate"]}" data-track-index="3" style="position:absolute; left:0; top:0; width:{SCR_W}px; height:{SCR_H}px; object-fit:cover;"></video>'
     for v in videos
 )
+video_tags = f"""      <div id="rig" data-layout-allow-overflow style="position:absolute; left:{RIG_X}px; top:{RIG_Y}px; width:{RIG_W}px; height:{RIG_H}px; z-index:40; opacity:0;">
+        <div id="phone-body" style="position:absolute; inset:0; border-radius:58px; background:#05140f; box-shadow: 0 0 0 2px rgba(198,244,50,0.25), 0 40px 90px -30px rgba(0,0,0,0.7);"></div>
+        <div id="screen-mask" style="position:absolute; left:{BEZEL}px; top:{BEZEL}px; width:{SCR_W}px; height:{SCR_H}px; border-radius:44px; overflow:hidden;">
+{video_inner}
+        </div>
+      </div>"""
+
+MAX_PUSH = 1.4  # wider would run into the headline column
+zoom_js = [
+    f'      tl.set("#rig", {{ transformOrigin: "50% 50%" }}, 0);',
+    f'      tl.fromTo("#rig", {{ opacity: 0, y: 60 }}, {{ opacity: 1, y: 0, duration: 0.6, ease: "power3.out" }}, {phone_start:.3f});',
+    f'      tl.to("#rig", {{ opacity: 0, duration: 0.35, ease: "power2.in" }}, {phone_end - 0.35:.3f});',
+]
+for b in BEATS:
+    if "zoom" not in b:
+        continue
+    fx, fy, scale, t_in, t_out = b["zoom"]
+    scale = min(scale, MAX_PUSH)
+    a_in = b["start"] + resolve(b, t_in)
+    a_out = b["start"] + resolve(b, t_out)
+    assert a_out - a_in > 1.0, (b["id"], a_in, a_out)
+    focus_y = (RIG_Y + BEZEL + fy * SCR_H) - (RIG_Y + RIG_H / 2)  # focus offset from the rig centre, unscaled
+    reach = RIG_H * scale / 2 - (H / 2 - (RIG_Y + RIG_H / 2)) - H / 2  # how far the scaled rig can slide and still fill the frame
+    y = max(-abs(reach), min(abs(reach), -focus_y * scale + (H / 2 - (RIG_Y + RIG_H / 2))))
+    zoom_js.append(f'      tl.fromTo("#rig", {{ scale: 1, y: 0 }}, {{ scale: {scale}, y: {y:.1f}, duration: 0.8, ease: "power2.inOut" }}, {a_in:.3f});')
+    zoom_js.append(f'      tl.to("#rig", {{ scale: 1, y: 0, duration: 0.5, ease: "power2.inOut" }}, {a_out:.3f});')
+
 SFX_LEN = {n: duration(ROOT / f"assets/sfx/{n}.mp3") for n in SFX_PEAK}
 voice_tags = "\n".join(f'      <audio id="vo-{b["id"]}" src="assets/voice/{b["id"]}.mp3" data-start="{round(b["start"] + LEAD, 3)}" data-duration="{round(b["voice"], 3)}" data-track-index="5" data-volume="1"></audio>' for b in BEATS)
 # Sound effects alternate between two Studio lanes so overlapping ticks never share a lane.
@@ -336,7 +392,6 @@ index = f"""<!doctype html>
     <div id="root" data-composition-id="main" data-start="0" data-duration="{TOTAL}" data-width="{W}" data-height="{H}">
       <div id="bg"></div>
 {chr(10).join(hosts)}
-      <div id="phone" data-composition-id="phone" data-composition-src="compositions/phone.html" data-start="{phone_start}" data-duration="{round(phone_end - phone_start, 3)}" data-track-index="2" data-track-kind="graphics" data-width="{W}" data-height="{H}" style="z-index:30;"></div>
 {video_tags}
       <div id="captions" data-composition-id="captions" data-composition-src="compositions/captions.html" data-start="0" data-duration="{TOTAL}" data-track-index="4" data-track-kind="captions" data-width="{W}" data-height="{H}" style="z-index:60;"></div>
 {voice_tags}
@@ -344,7 +399,9 @@ index = f"""<!doctype html>
 {sfx_tags}
     </div>
     <script>
-      window.__timelines["main"] = gsap.timeline({{ paused: true }});
+      const tl = gsap.timeline({{ paused: true }});
+{chr(10).join(zoom_js)}
+      window.__timelines["main"] = tl;
     </script>
   </body>
 </html>
